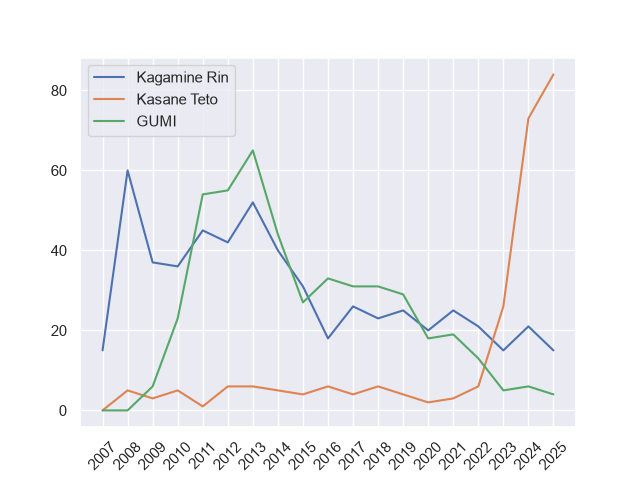
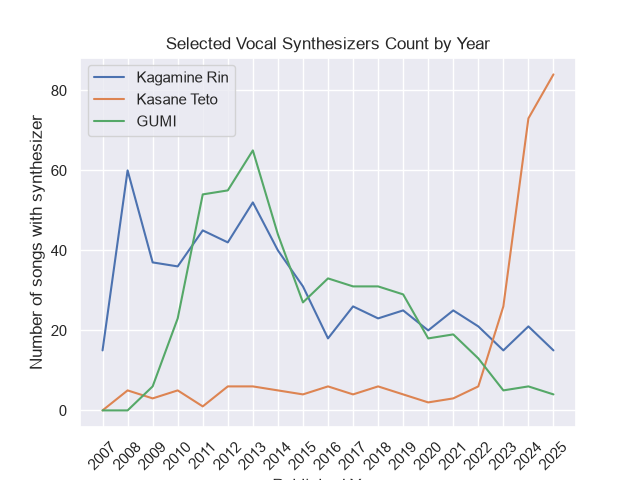
added labels to graph

Changed region(s): [[0.25, 0.0625, 0.7812, 0.125], [0.0312, 0.25, 0.0625, 0.7812]]

diff --git a/vocal_synth.py b/vocal_synth.py
@@ -39,7 +39,10 @@ def plot_count_per_year(songs):
     fig, ax = plt.subplots(1)
     
     data.plot(ax=ax, x="year")
+    plt.xlabel("Published Year")
+    plt.ylabel("Number of songs with synthesizer")
     plt.xticks(data["year"], rotation=45)
+    plt.title("Selected Vocal Synthesizers Count by Year")
     #sns.relplot(x="year", y="Kagamine Rin", data=data, kind="line")
 
     plt.savefig("vocal_synth_trends.png")
